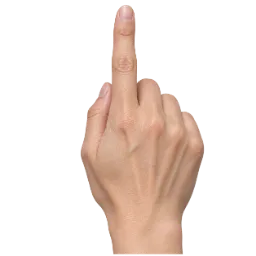
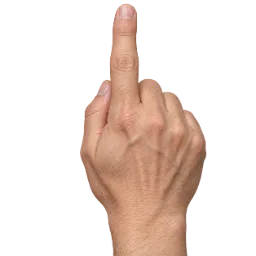
指差しカーソルを中年男性風にして斜めに傾ける

Changed region(s): [[0.3125, 0.0, 0.8125, 1.0], [0.5625, 0.9062, 0.5938, 0.9375], [0.5625, 0.4688, 0.5938, 0.5]]

diff --git a/preview/index.html b/preview/index.html
@@ -3,7 +3,7 @@
 <head>
 <meta charset="UTF-8">
 <meta name="robots" content="noindex, nofollow">
-<meta name="preview-version" content="shuto-20260917084346">
+<meta name="preview-version" content="shuto-20260917084803">
 <meta name="viewport" content="width=device-width, initial-scale=1, maximum-scale=1, user-scalable=no">
 <title>手刀を見逃さないゲーム</title>
 <style>
@@ -28,10 +28,10 @@
   <button id="start" type="button">START</button>
   <button id="share-button" type="button" aria-label="Xでシェア" hidden></button>
 </div></div>
-<script src="../games/share.js?v=shuto-20260917084346"></script>
-<script src="../games/result-actions.js?v=shuto-20260917084346"></script>
-<script src="../games/action-icons.js?v=shuto-20260917084346"></script>
-<script src="../games/pad.js?v=shuto-20260917084346"></script>   <!-- ジョイパッドと、絵の外のタップ -->
+<script src="../games/share.js?v=shuto-20260917084803"></script>
+<script src="../games/result-actions.js?v=shuto-20260917084803"></script>
+<script src="../games/action-icons.js?v=shuto-20260917084803"></script>
+<script src="../games/pad.js?v=shuto-20260917084803"></script>   <!-- ジョイパッドと、絵の外のタップ -->
 <script>
 /* 手刀を見逃さないゲーム
 
@@ -51,7 +51,7 @@
   var handImage = new Image(), handReady = false;
   var pointer = { x:0, y:0, visible:false };
   handImage.onload = function () { handReady = true; };
-  handImage.src = '../games/shuto/img/pointing-hand.webp?v=shuto-20260917084346';
+  handImage.src = '../games/shuto/img/pointing-hand.webp?v=shuto-20260917084803';
   function hideHand() {
     pointer.visible = false; wrap.classList.remove('photo-cursor');
     if (people) draw();
@@ -521,7 +521,11 @@
     if (state === S.RESULT||state===S.SUCCESS) drawResult();
     if (pointer.visible && handReady) {
       var size = 120;
-      ctx.drawImage(handImage, pointer.x-size*.49, pointer.y-size*.018, size, size);
+      ctx.save();
+      ctx.translate(pointer.x, pointer.y);
+      ctx.rotate(-25*Math.PI/180);
+      ctx.drawImage(handImage, -size*.49, -size*.014, size, size);
+      ctx.restore();
     }
   }
 
@@ -635,10 +639,10 @@
 <script>
 if (document.head && /^(localhost|127\.0\.0\.1)$/.test(location.hostname) && !/[?&]recorder-cli=1(?:&|$)/.test(location.search)) {
   var recorderScript = document.createElement("script");
-  recorderScript.src = "../games/_tools/recorder-ui.js?v=shuto-20260917084346";
+  recorderScript.src = "../games/_tools/recorder-ui.js?v=shuto-20260917084803";
   document.head.appendChild(recorderScript);
 }
 </script>
-<script src="./auto-reload.js?v=shuto-20260917084346"></script>
+<script src="./auto-reload.js?v=shuto-20260917084803"></script>
 </body>
 </html>

diff --git a/games/shuto/index.html b/games/shuto/index.html
@@ -60,7 +60,7 @@
   var handImage = new Image(), handReady = false;
   var pointer = { x:0, y:0, visible:false };
   handImage.onload = function () { handReady = true; };
-  handImage.src = 'img/pointing-hand.webp';
+  handImage.src = 'img/pointing-hand.webp?v=2';
   function hideHand() {
     pointer.visible = false; wrap.classList.remove('photo-cursor');
     if (people) draw();
@@ -530,7 +530,11 @@
     if (state === S.RESULT||state===S.SUCCESS) drawResult();
     if (pointer.visible && handReady) {
       var size = 120;
-      ctx.drawImage(handImage, pointer.x-size*.49, pointer.y-size*.018, size, size);
+      ctx.save();
+      ctx.translate(pointer.x, pointer.y);
+      ctx.rotate(-25*Math.PI/180);
+      ctx.drawImage(handImage, -size*.49, -size*.014, size, size);
+      ctx.restore();
     }
   }
 
